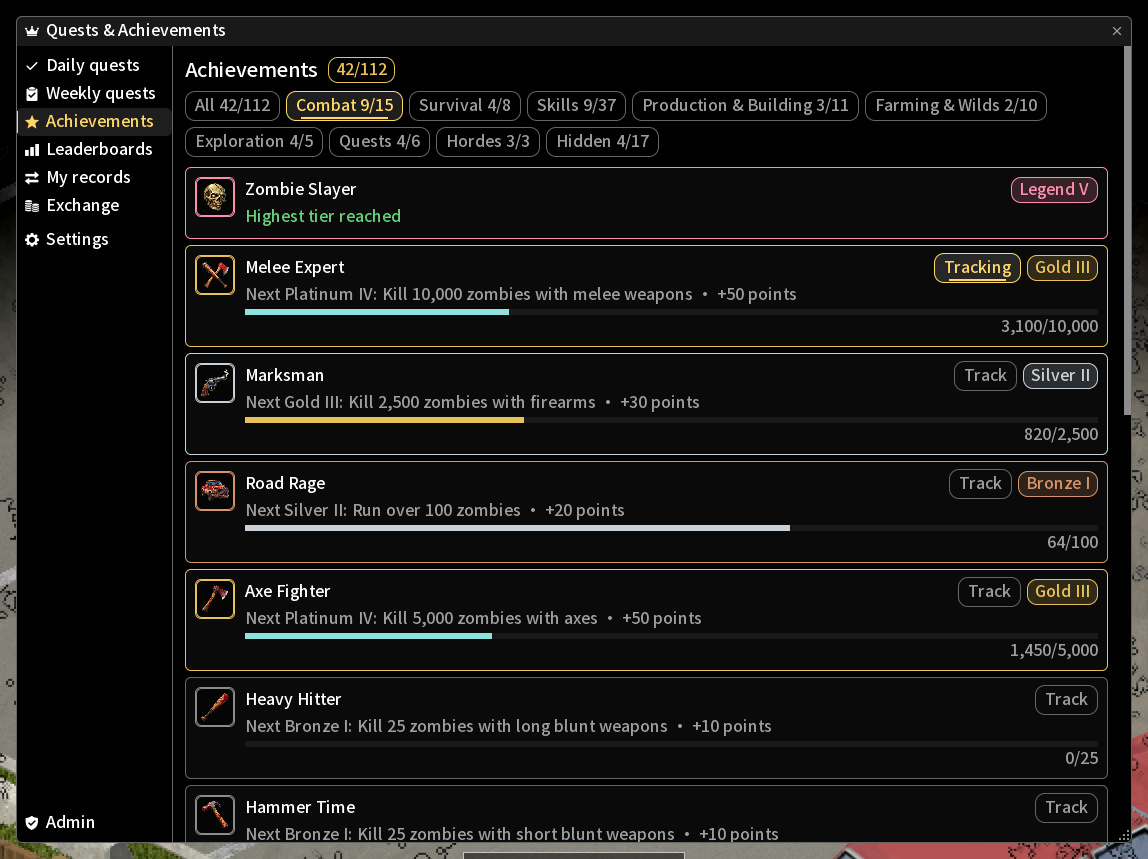
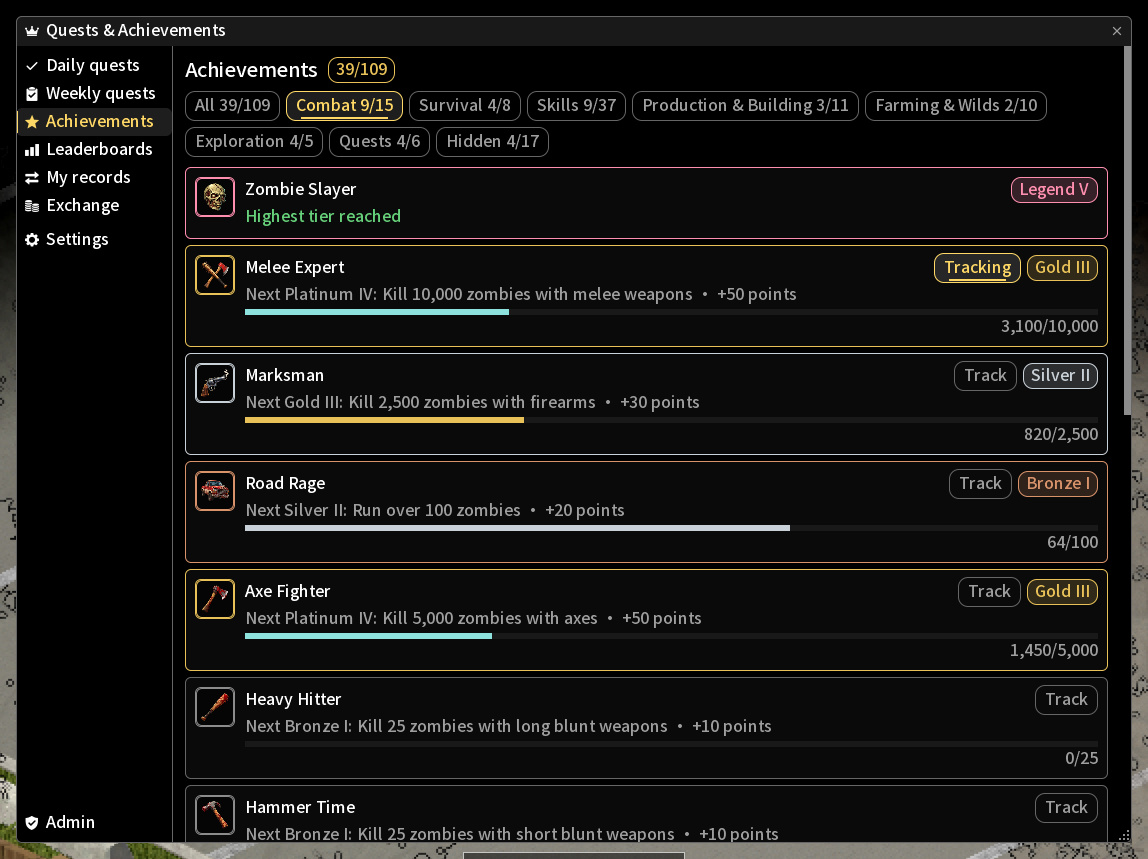
成就頁：伺服器沒開過屍潮時不列「屍潮」類
屍潮成就只有開了屍潮的伺服器拿得到。之前成就頁一律列出「屍潮」類與它的 3 項，
沒開屍潮的伺服器玩家看到拿不到的成就，總數也算進去。

PageAchievements.visible 在 state.hordes.on 為 false 時拿掉 cat == "horde" 的成就，
分類標籤、各類數字與總數都跟著少；和「屍潮任務」頁同一個條件（開了自動屍潮或有過屍潮）。

ui-mp：ach-horde 移到 hordes 布置之後拍，布置前多一個檢查「沒有屍潮類」；
CH、EN quest-ui-*-1026w PASS 86 步／149 檢查（布置前 39/109，布置後 42/112）。
文件圖 03 換成 1026w 產生的；README、CHANGELOG、Steam 指南寫明開了屍潮才列出。

Changed region(s): [[0.7012, 0.8475, 1.0, 1.0], [0.3963, 0.1513, 0.5793, 0.1816], [0.2744, 0.0605, 0.3354, 0.0908]]

diff --git a/docs/ARCHITECTURE.md b/docs/ARCHITECTURE.md
@@ -515,7 +515,7 @@ boards[i] = { id = "kills", cat = "combat", stat = "zombie.kills", periods = { "
 - Dock：`{ id = "quest", order = 70, icon = "media/ui/MinidoracatQuest/dock_trophy.png", iconKey = …, bind = "MinidoracatQuest_Toggle", getBadge = unseen }`。
 - 視窗：左側 NavList `Window.nav`（每日任務、每週任務、屍潮任務（只在 `state.hordes.on`）、成就、排行榜、我的紀錄、兌換（只在 `state.exchange` 可兌換或 `hist` 有資料時，spec 的 `shown`）；分隔後：設定）；管理（只有 `state.admin`）是另一個 NavList `Window.navAdmin`，貼在左欄底部（`Window.placeNav`：y＝max(`nav` 底＋`ADMIN_GAP` 12 px, 視窗高－自身高－6)，視窗版面或列出的頁面一變就重放；UI 框架的 NavList 沒有置底，所以分成兩個）。非管理員時隱藏。兩個清單只有一個有選取：`Window.select` 把頁面 id 設給擁有它的清單、另一個清掉（`setSelected(nil, true)`），兩個清單的 onSelect 都走 `Window.select`。右側內容；不透明視窗。列出的頁面一變（`Window.syncNav` 比對列出的頁面 id）就重建兩個 NavList，目前那頁不再列出時回到每日任務。預設大小＝內容寬（螢幕寬一半，夾在 640～1000 px）＋NavList 寬、高為螢幕高 82 %（460～1000 px），都不超過螢幕減 40 px（`Window.defaultSize`）；玩家拖過的大小由 ISLayoutManager 記住，大小和預設不同時標題列出現「重設大小」，按下回到預設大小並置中。
 - 導覽的鍵盤與手把：NavList 到邊時 `onFocusKey` 回 false，Focus 引擎對鍵盤就停在原地，所以 `Window.lua` 只在這兩個實例上包 `onFocusKey`：`nav` 最後一列按下 → `Focus.focusControl(navAdmin)` 並停在它的第一列，`navAdmin` 第一列按上 → 回到 `nav` 最後一列；手把方向也先問同一個 `onFocusKey`（`Focus.onJoypadDir`）。`navAdmin` 隱藏（非管理員）時照原本行為。
-- 頁面資料來源：每日／每週／成就／我的紀錄（積分卡）／兌換用 `state`；我的紀錄表格送 `records`；排行榜送 `board`（狀態機 loading → ready／empty／error，5 秒逾時）；設定頁送 `prefs`／`title`／`anon`。兌換頁的「兌換倖存幣...」開兌換視窗（`ExchangeDialog`），使用者 2026-10-24 要求兌換與兌換紀錄從我的紀錄分出來。屍潮任務頁（`PageHordes.lua`，設計稿 r12）：上方是每日頁同一個屍潮橫幅（沒有進行中的場次時一行說明），接著四格累計（`horde.joined`／`wins`／`kills`／`mvp`，讀 `records` 的統計），再來是 `records.hordes` 的清單框（時間、地點、結果、我的擊殺、得分）；打開時送 `records`，開著時 `state.hordes.last` 換成比清單新的場次就再送一次。
+- 頁面資料來源：每日／每週／成就／我的紀錄（積分卡）／兌換用 `state`；我的紀錄表格送 `records`；排行榜送 `board`（狀態機 loading → ready／empty／error，5 秒逾時）；設定頁送 `prefs`／`title`／`anon`。兌換頁的「兌換倖存幣...」開兌換視窗（`ExchangeDialog`），使用者 2026-10-24 要求兌換與兌換紀錄從我的紀錄分出來。屍潮任務頁（`PageHordes.lua`，設計稿 r12）：上方是每日頁同一個屍潮橫幅（沒有進行中的場次時一行說明），接著四格累計（`horde.joined`／`wins`／`kills`／`mvp`，讀 `records` 的統計），再來是 `records.hordes` 的清單框（時間、地點、結果、我的擊殺、得分）；打開時送 `records`，開著時 `state.hordes.last` 換成比清單新的場次就再送一次。成就頁的「屍潮」類跟這一頁同一個條件（`PageHordes.shown()`，即 `state.hordes.on`）：沒開過屍潮的伺服器拿不到，卡片、分類按鈕與「已解鎖／總數」都不算它（`PageAchievements.visible`；使用者 2026-10-26 照建議）；catalog 不動，通知與管理頁照樣找得到。
 - 設定頁最後一段「各主題的任務」（預設收起）：`Client.questList()` 從 shared Catalog＋`catalog` 推送算出啟用的每日與每週樣板、乘過難度的目標範圍（和 `Quests` 的 `rollTarget` 同一捨入）與積分，不另送資料：預設值本來就在每個客戶端，`catalog.overrides` 也送給所有玩家，伺服器擋了也藏不住。`state.admin` 或 `quests.playerList` 為 true 才列出；設定關著時管理員看到的那段附註「只有管理員看得到」。套用設定後伺服器重送 `catalog`，清單跟著更新。
 - 開視窗送 `watch {on=true}`，關視窗送 `{on=false}`；打開每日頁或成就頁時送 `seen`。
 - 追蹤面板（`Hud.lua`）：`ISPanel` 衍生、放在最底層（`backMost`：每次 UI 更新引擎都把它移到最底，`UIManager.java:562-568`），所以每個視窗都蓋在它上面，包括比它早建立的物品欄與上次沒關的角色視窗，拖曳時 `ISPanel` 的 `bringToTop` 也一樣；用頁面同一套 canvas 指令繪製（`Draw.renderOps`），資料一變才重排，`render` 只走指令列。預設在原版左側欄右邊（`getPlayerData(0).equipped` 的右緣＋12），會碰到原版物品欄的標題列時（物品欄看得到、左右重疊、物品欄的 y 在面板標題列底線之上）改放在物品欄標題列下面 6 px；拖過的位置與收合狀態用 `ISLayoutManager` 記在 `layout.ini`（拖完或收合就寫）。顯示條件：MOD 選項開、有追蹤項目、角色活著、沒按 V（`ISUIHandler.allUIVisible`）、Esc 選單沒開；任務視窗開著也照樣顯示（使用者 2026-10-24：按「追蹤」要馬上看到），視窗蓋在它上面。每 500 ms 與資料變動時檢查，介面被藏起來時不自己出現。`hello` 時面板開著就送 `track {on=true}`，選項切換時送 on／off。卡片上的「追蹤」chip 送 `pin`；滿 5 個時其他 chip 停用並以 tooltip 說明。

diff --git a/CHANGELOG.md b/CHANGELOG.md
@@ -22,7 +22,7 @@
 - **連續天數**：一天完成 4 個中的 3 個算一天，每週有 1 天寬限（那天沒完成也不中斷）；連續 3、7、14、30 天各有獎勵，30 天另給稱號。
 - **新手任務**：新玩家的 5 個引導步驟，在每日頁最上面顯示 7 天，全部完成拿積分與稱號。
 - **限時活動**：管理員可以排定期間，讓指定主題（或全部）的每日、每週任務積分加倍。
-- **屍潮任務**：管理員在管理面板新的「屍潮」分頁設好地點與每天的時段後，時段內伺服器每小時擲一次骰，中了就開一場屍潮；管理員也能手動開一場，自己決定提前幾分鐘預告（0 是馬上開始）。開始前全服收到預告，寫出地點、幾分鐘後開始與可能出現的種類（一般殭屍、跑屍，或其他 MOD 加的種類），不寫隻數；開始前 2 分鐘，人在地點 50 格內的玩家會再收到一次提醒，不想參加的人來得及離開。開始時有人在地點 50 格內，屍群就會出現並開始倒數。追蹤面板最上面一列與每日任務頁的橫幅顯示地點、倒數與已清隻數，裝了 Minidoracat MiniMap 時小地圖也會標出範圍。時限內清光，有擊殺的人拿到積分（依擊殺比例分配，或有擊殺的人各拿全額，由管理員選），算進本季、累計與餘額，也能兌換；時間到沒清完就失敗，剩下的殭屍會被移除。伺服器有屍潮之後，視窗左側多一個「屍潮任務」頁：目前這一場；自己參加過幾場、清光幾場、屍潮擊殺數與幾場是單場擊殺最多的人；以及全服最近 10 場的結果與自己在每場的擊殺和得分。成就多一類「屍潮」（清光場數、屍潮擊殺、單場擊殺最多各五級），第一次參與清光屍潮另外解鎖隱藏成就與稱號「屍潮獵人」。屍潮裡的擊殺照樣算進擊殺統計、任務與成就。
+- **屍潮任務**：管理員在管理面板新的「屍潮」分頁設好地點與每天的時段後，時段內伺服器每小時擲一次骰，中了就開一場屍潮；管理員也能手動開一場，自己決定提前幾分鐘預告（0 是馬上開始）。開始前全服收到預告，寫出地點、幾分鐘後開始與可能出現的種類（一般殭屍、跑屍，或其他 MOD 加的種類），不寫隻數；開始前 2 分鐘，人在地點 50 格內的玩家會再收到一次提醒，不想參加的人來得及離開。開始時有人在地點 50 格內，屍群就會出現並開始倒數。追蹤面板最上面一列與每日任務頁的橫幅顯示地點、倒數與已清隻數，裝了 Minidoracat MiniMap 時小地圖也會標出範圍。時限內清光，有擊殺的人拿到積分（依擊殺比例分配，或有擊殺的人各拿全額，由管理員選），算進本季、累計與餘額，也能兌換；時間到沒清完就失敗，剩下的殭屍會被移除。伺服器有屍潮之後，視窗左側多一個「屍潮任務」頁：目前這一場；自己參加過幾場、清光幾場、屍潮擊殺數與幾場是單場擊殺最多的人；以及全服最近 10 場的結果與自己在每場的擊殺和得分。成就頁也在這之後多一類「屍潮」（清光場數、屍潮擊殺、單場擊殺最多各五級），第一次參與清光屍潮另外解鎖隱藏成就與稱號「屍潮獵人」。屍潮裡的擊殺照樣算進擊殺統計、任務與成就。
 - **約 110 項成就與稱號**：戰鬥、生存、35 個技能、生產與建造、農牧與野外、探索、任務、屍潮等類，一般成就分銅、銀、金、白金、傳說五級（積分 10／20／30／50／80），白金級給稱號，傳說級多給積分；技能類是技能等級 2／4／6／8／10，技能稱號在 8 級拿。另有只給提示的隱藏成就。解鎖到金級以上會通知全服（玩家可在 MOD 選項關掉通知）。
 - **排行榜與賽季**：16 個榜分 8 類，有本季與總榜，可以選擇匿名上榜（其他玩家看不到名字與稱號，管理員看得到）。賽季預設 28 天，結束時依綜合榜名次發積分與稱號，本季賺到一定積分的人都有參加獎。
 - **我的紀錄**：看自己這條命、本季與累計的各項統計，選要掛的稱號。

diff --git a/STEAM_GUIDE_EN.md b/STEAM_GUIDE_EN.md
@@ -135,7 +135,7 @@ Once the server has automatic hordes on or has had a horde, a "Hordes" page appe
 [*] [b]Pool[/b]: zombies spawned × points per zombie (5 by default).
 [*] [b]Split[/b]: the admin picks "Split by kill share" (default, at least 1 point each) or "Full pool to everyone with a kill".
 [*] [b]Where it counts[/b]: season, all-time and balance, so it can be exchanged.
-[*] [b]Horde achievements[/b]: the "Hordes" category on the achievements page: hordes cleared, horde kills and top killer (cleared hordes with 2 or more players, ties count for all), five tiers each. The first horde you help clear also unlocks a hidden achievement and the title "Horde Hunter".
+[*] [b]Horde achievements[/b]: once the server has automatic hordes on or has had a horde, the achievements page gets a "Hordes" category: hordes cleared, horde kills and top killer (cleared hordes with 2 or more players, ties count for all), five tiers each. The first horde you help clear also unlocks a hidden achievement and the title "Horde Hunter".
 [*] [b]Kills still count[/b]: horde kills count for kill stats, quests and achievements as usual.
 [/list]
 [h3]Failing[/h3]
@@ -174,7 +174,7 @@ Once the server has automatic hordes on or has had a horde, a "Hordes" page appe
 [tr][td]Farming & Wilds[/td][td]Planting, harvesting, fishing, foraging, trapping, butchering, milking, shearing, collecting eggs, chopping trees[/td][/tr]
 [tr][td]Exploration[/td][td]Towns visited, walking, driving, reading, placing furniture[/td][/tr]
 [tr][td]Quests[/td][td]Daily, weekly, longest streak, server goals, seasons joined, achievement tiers[/td][/tr]
-[tr][td]Hordes[/td][td]Hordes cleared, horde kills, top killer (only on servers that run hordes)[/td][/tr]
+[tr][td]Hordes[/td][td]Hordes cleared, horde kills, top killer (listed only on servers that run hordes)[/td][/tr]
 [tr][td]Hidden[/td][td]17 achievements, only a hint until unlocked[/td][/tr]
 [tr][td]Professions[/td][td]None built in; other mods add them through the API[/td][/tr]
 [/table]

diff --git a/STEAM_GUIDE.md b/STEAM_GUIDE.md
@@ -135,7 +135,7 @@ https://steamcommunity.com/sharedfiles/filedetails/?id=WORKSHOP_ID
 [*] [b]總獎勵[/b]：實際生成隻數 × 每隻積分（預設 5）。
 [*] [b]分法[/b]：管理員選「依擊殺比例分配」（預設，每人至少 1 分）或「有擊殺的人各拿全額」。
 [*] [b]算進哪裡[/b]：本季、累計、餘額都加，可以兌換。
-[*] [b]屍潮成就[/b]：成就頁的「屍潮」類：清光場數、屍潮擊殺、單場擊殺最多（2 人以上清光的場次，並列都算）各五級。第一次參與清光屍潮另外解鎖隱藏成就與稱號「屍潮獵人」。
+[*] [b]屍潮成就[/b]：伺服器開了自動屍潮或有過屍潮後，成就頁多一類「屍潮」：清光場數、屍潮擊殺、單場擊殺最多（2 人以上清光的場次，並列都算）各五級。第一次參與清光屍潮另外解鎖隱藏成就與稱號「屍潮獵人」。
 [*] [b]照樣算擊殺[/b]：屍潮裡的擊殺也算進擊殺統計、任務與成就。
 [/list]
 [h3]失敗[/h3]
@@ -174,7 +174,7 @@ https://steamcommunity.com/sharedfiles/filedetails/?id=WORKSHOP_ID
 [tr][td]農牧與野外[/td][td]播種、收成、釣魚、搜尋、誘捕、屠宰、擠奶、剪毛、撿蛋、砍樹[/td][/tr]
 [tr][td]探索[/td][td]造訪城鎮、步行、開車、讀書、擺放家具[/td][/tr]
 [tr][td]任務[/td][td]每日、每週、最長連續、共同目標、參加賽季、成就數[/td][/tr]
-[tr][td]屍潮[/td][td]清光場數、屍潮擊殺、單場擊殺最多（伺服器有開屍潮才拿得到）[/td][/tr]
+[tr][td]屍潮[/td][td]清光場數、屍潮擊殺、單場擊殺最多（伺服器開了屍潮才列出）[/td][/tr]
 [tr][td]隱藏[/td][td]17 項，解鎖前只有提示[/td][/tr]
 [tr][td]職業[/td][td]沒有內建，給其他 MOD 用 API 加[/td][/tr]
 [/table]
